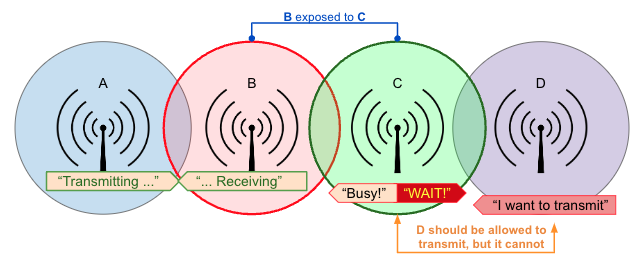
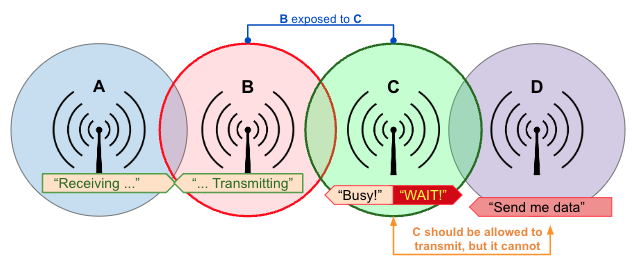
simplify exposed node problem

diff --git a/arednNetworkDesign/channel_planning.rst b/arednNetworkDesign/channel_planning.rst
@@ -41,7 +41,7 @@ In any wireless network there will be nodes that are not within radio range of e
 
 |
 
-In the `Exposed Node <https://en.wikipedia.org/wiki/Exposed_node_problem>`_ example below, **A** can reach **B** but cannot reach **C** or **D**. However, if **A** and **B** are communicating, then **C** will detect that the channel is not clear and will prevent **D** from transmitting even though **D**'s transmission would not interfere with the conversation between **A** and **B**. This increases the network wait time which impacts overall throughput.
+In the `Exposed Node <https://en.wikipedia.org/wiki/Exposed_node_problem>`_ example below, **A** can reach **B** but cannot reach **C** or **D**. However, if **A** and **B** are communicating, then **C** will detect that the channel is not clear and will not transmit to **D** even though the transmission would not interfere with the conversation between **A** and **B**. This increases the network wait time which impacts overall throughput.
 
 .. image:: _images/exposed-node.png
    :alt: Exposed Node Problem
